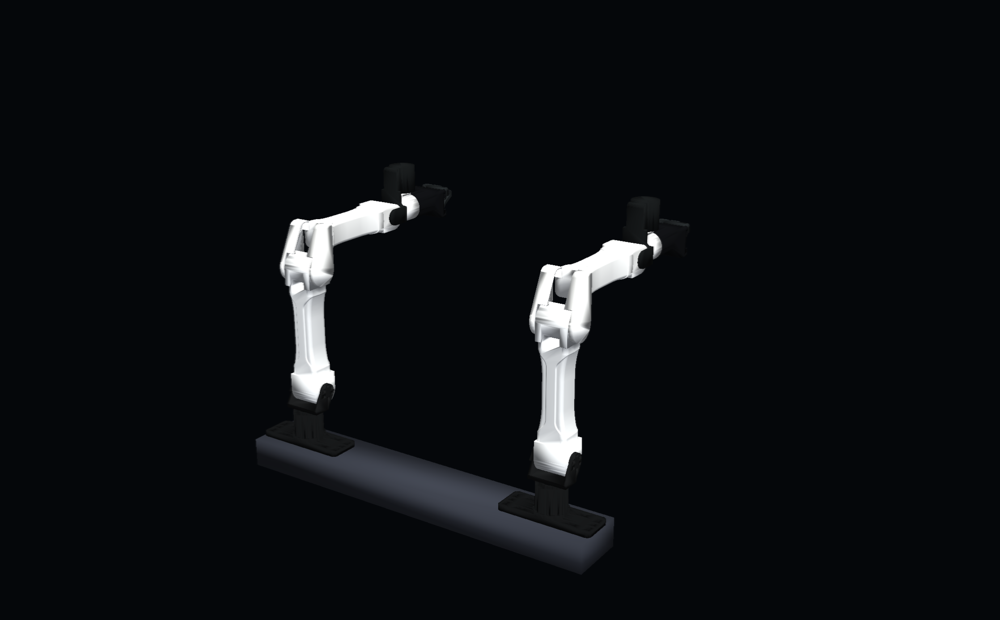
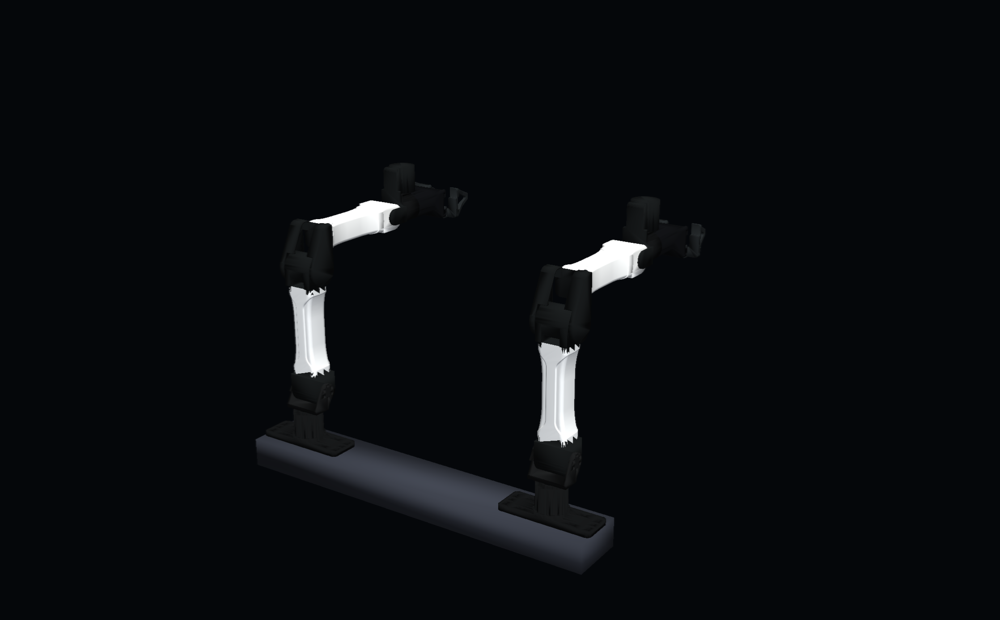
fix(yam): preserve jaw aperture and motor finish
- Correct the official linear gripper convention and preserve demonstrated aperture in meters during YAM replay.\n- Split upstream link visuals into white structure and black motor housings without changing kinematics.

diff --git a/tests/scripts/test_replay_in_sim.py b/tests/scripts/test_replay_in_sim.py
@@ -42,6 +42,22 @@ def test_grippers_fall_back_to_widths_in_meters():
     assert source == "state widths in meters"
 
 
+def test_physical_width_gripper_retarget_overrides_recorded_percentage():
+    states = np.zeros((2, 16), dtype=np.float32)
+    states[:, 14:16] = [[0.024, 0.048], [0.096, 0.12]]
+    recorded = np.array([[0.2, 0.7], [0.3, 0.8]], dtype=np.float32)
+
+    openings, source = _resolve_gripper_openings(
+        states,
+        recorded,
+        max_width_m=0.096,
+        mode="physical-width",
+    )
+
+    np.testing.assert_allclose(openings, [[0.25, 0.5], [1.0, 1.0]], atol=1e-6)
+    assert source == "state widths in meters"
+
+
 def test_controller_device_is_read_from_dataset_metadata():
     args = Namespace(controller_device=None)
     info = {"handumi": {"recording_device": "meta"}}

diff --git a/tests/robots/test_registry.py b/tests/robots/test_registry.py
@@ -182,6 +182,7 @@ def test_yam_bimanual_layout_and_forward_home():
     assert runtime.arm_joint_indices("right") == list(range(8, 14))
     assert runtime.config.default_home_pose == "forward_open"
     assert runtime.config.replay_max_joint_delta == 0.35
+    assert runtime.config.replay_gripper_mode == "physical-width"
 
     left, right = runtime.solver_cls().fk_pose7(runtime.home_q())
     np.testing.assert_allclose(left[0], -0.30, atol=1e-5)
@@ -194,16 +195,16 @@ def test_yam_linear_4310_gripper_mapping_and_visual_meshes():
     runtime = load_embodiment("yam")
     finger_indices = [6, 7, 14, 15]
 
-    np.testing.assert_allclose(runtime.home_q()[finger_indices], 0.0)
+    np.testing.assert_allclose(runtime.home_q()[finger_indices], -0.04695)
     q = runtime.home_q()
     runtime.set_finger_positions(q, {"left": 0.0, "right": 1.0})
-    np.testing.assert_allclose(q[finger_indices], [-0.04695, -0.04695, 0.0, 0.0])
-    runtime.set_finger_positions(q, {"left": 1.0, "right": 0.0})
     np.testing.assert_allclose(q[finger_indices], [0.0, 0.0, -0.04695, -0.04695])
+    runtime.set_finger_positions(q, {"left": 1.0, "right": 0.0})
+    np.testing.assert_allclose(q[finger_indices], [-0.04695, -0.04695, 0.0, 0.0])
 
     urdf = runtime.load_urdf(load_meshes=True)
     assert urdf.scene is not None
-    assert len(urdf.scene.geometry) == 19
+    assert len(urdf.scene.geometry) == 25
 
 
 def test_legacy_ee_links_are_derived_from_arms():

diff --git a/src/handumi/robots/registry.py b/src/handumi/robots/registry.py
@@ -98,6 +98,7 @@ class RobotConfig:
     default_home_pose: str
     ik_weights: KinematicsConfig
     replay_max_joint_delta: float | None
+    replay_gripper_mode: str
     gripper_max_width_m: float
     controller_tcp_calibrations: dict[str, Path]
     handumi_gripper: str | None
@@ -272,6 +273,11 @@ def load_robot_config(name: str) -> RobotConfig:
 
     weights = data.get("ik_weights") or {}
     replay = data.get("replay") or {}
+    replay_gripper_mode = str(replay.get("gripper_retarget", "normalized"))
+    if replay_gripper_mode not in {"normalized", "physical-width"}:
+        raise ValueError(
+            "replay.gripper_retarget must be 'normalized' or 'physical-width'."
+        )
     real = data.get("real") or {}
     urdf = _resolve_path(data["urdf"])
     pkg_root = _resolve_path(data["pkg_root"])
@@ -346,6 +352,7 @@ def load_robot_config(name: str) -> RobotConfig:
             if replay.get("max_joint_delta") is None
             else float(replay["max_joint_delta"])
         ),
+        replay_gripper_mode=replay_gripper_mode,
         real=RobotRealConfig(
             command_rate_hz=float(real.get("command_rate_hz", 100.0)),
             max_joint_speed_deg_s=float(real.get("max_joint_speed_deg_s", 180.0)),

diff --git a/src/handumi/scripts/replay/replay_in_sim.py b/src/handumi/scripts/replay/replay_in_sim.py
@@ -296,9 +296,12 @@ def _resolve_gripper_openings(
     recorded_normalized: np.ndarray | None,
     *,
     max_width_m: float,
+    mode: str = "normalized",
 ) -> tuple[np.ndarray | None, str]:
     """Return per-frame 0-1 gripper openings and their source description."""
-    if recorded_normalized is not None:
+    if mode not in {"normalized", "physical-width"}:
+        raise ValueError(f"Unsupported gripper retarget mode {mode!r}.")
+    if mode == "normalized" and recorded_normalized is not None:
         return np.clip(recorded_normalized, 0.0, 1.0), "recorded Feetech normalized"
     if states.ndim != 2 or states.shape[1] != HANDUMI_RAW_STATE_SIZE:
         raise ValueError(
@@ -668,6 +671,7 @@ def solve_episode(args: argparse.Namespace) -> dict[str, np.ndarray]:
             if args.gripper_max_width_m is None
             else args.gripper_max_width_m
         ),
+        mode=runtime.config.replay_gripper_mode,
     )
     if args.raw_controller_debug:
         states_for_retarget = states

diff --git a/assets/yam/README.md b/assets/yam/README.md
@@ -14,6 +14,9 @@ come from the current YAM and `linear_4310` asset directories in that commit.
 - the upstream zero-range root joint is represented as a fixed joint;
 - both bases are placed 0.60 m apart in a +X-right, +Y-forward, +Z-up world;
 - the stale upstream mesh paths are replaced with the current I2RT assets;
+- `link2` and `link3` are split into arm/casing visual meshes without changing
+  their triangles, so YAM's white links and black motor housings can use
+  separate URDF materials;
 - fixed TCP links use I2RT's `grasp_site` offset of 0.1347 m;
 - the two finger slides per arm expose the full 0.096 m nominal stroke.
 